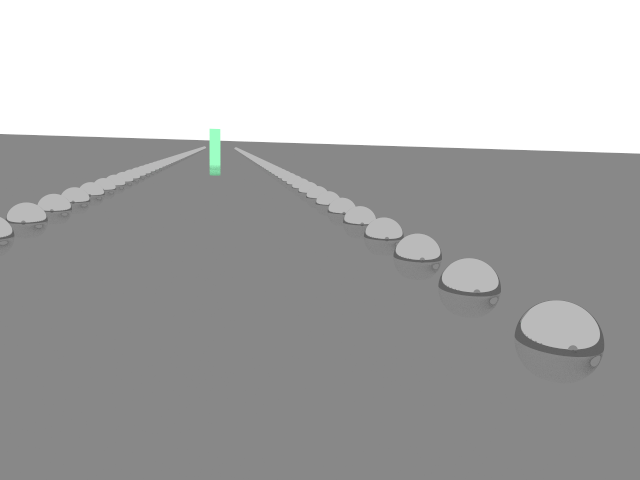
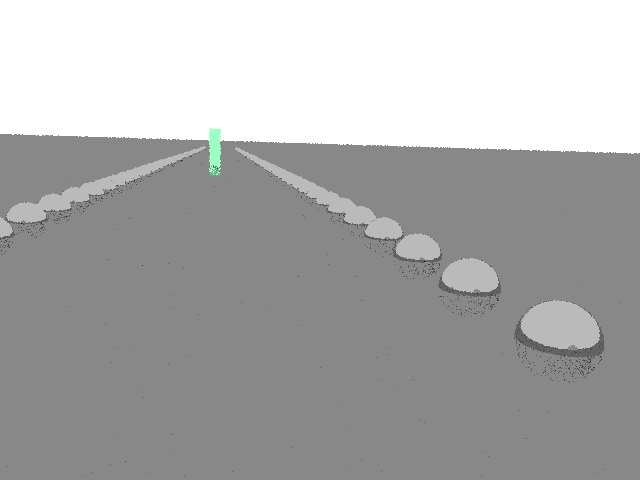
Abgabe a08

diff --git a/src/cgg/Scene.java b/src/cgg/Scene.java
@@ -18,8 +18,6 @@ public class Scene {
 
     public static Group scene1() {
 
-        List<Shape> scene;
-        scene = new ArrayList<>();
         Diffuse diffuse = new Diffuse(color(0.05, 0.3, 0.95));
         Diffuse diffuse1 = new Diffuse(Color.gray);
         Diffuse diffuseGround = new Diffuse(color(0,1,0));
@@ -27,38 +25,54 @@ public class Scene {
         Diffuse diffuse2 = new Diffuse(color(1, 0.81, 0.349));
         Diffuse diffuse3 = new Diffuse(color(0.349, 1, 0.5647));
         Diffuse diffuse4 = new Diffuse(color(0.93,0.02,0.01));
-        Emitter emitter = new Emitter(Color.white, Color.white);
+        Emitter emitter = new Emitter(Color.black, Color.gray);
         Emitter emitter2 = new Emitter(Color.white, color(1,0.8,0));
         Emitter emitter3 = new Emitter(Color.white, color(1,0.5,0.3));
-
         Emitter emitterBlau = new Emitter(Color.white, color(0,0.533,1));
         Mirror mirror = new Mirror(2);
         Mirror mirror2 = new Mirror(0);
         Glass glass = new Glass();
-
         Shape background = new Background(emitter);
-        scene.add(background);
         Shape ground = new Plane(point(0.0, -0.5, 0.0), direction(0, 1, 0), diffuse1);
-        scene.add(ground);
-        Shape globe1 = new Sphere(point(0.8, 0, -6), 0.6, diffuse4);
-        //scene.add(globe1);
-        Shape globe2 = new Sphere(point(0, 0.1, -2), 0.3, glass);
-       // scene.add(globe2);
-        Shape globe3 = new Sphere(point(-0.8, 0.2, -2), 0.2, diffuse3);
-       // scene.add(globe3);
-        Shape globe4 = new Sphere(point(1, 0, -2), 0.3 ,mirror);
-       // scene.add(globe4);
-        Cylinder cylinder = new Cylinder(point(-4.5, 0, -50), 0.5, 0.02, diffuse3);
-        scene.add(cylinder);
 
-        for(int i = 0; i < 200; i = i+ 3){
 
-            Shape globeScene = new Sphere(point(1, 0, -i), 0.6, mirror2);
-            scene.add(globeScene);
-            Shape globeScene2 = new Sphere(point(-10, 0, -i), 0.6, mirror2);
-            scene.add(globeScene2);
+        //Übergeordnete Group
+        Matrix matrixGroup = Matrix.multiply(Matrix.rotation(direction(1, 0, 0), -0) , (Matrix.translation(direction(0, 0, 0))));
+        Group group = new Group(matrixGroup);
+
+        //Untergeordnete Group
+        Matrix matrix = Matrix.multiply(Matrix.rotation(direction(0, 1, 0), 0) ,Matrix.translation(direction(0, 0, 0)));
+        Group sphereGroup = new Group(matrix);
+        for(int i = 0; i < 1000; i++){
+
+            Shape sphere = new Sphere(point(1, 0, -i), 0.6, mirror2);
+            sphereGroup.addShapes(sphere);
+            Shape sphere2 = new Sphere(point(-10, 0, -i), 0.6, mirror2);
+            sphereGroup.addShapes(sphere2);
         }
-        Group group = new Group(scene);
+
+        Matrix matrix2 = Matrix.multiply(Matrix.rotation(direction(1, 0, 0), -90),
+                            Matrix.translation(direction(0, 0, 150)),
+                            Matrix.rotation(direction(0,0,1) , -45));
+        Group sphereGroup2 = new Group(matrix2);
+        Matrix matrix3 = Matrix.multiply(Matrix.rotation(direction(1, 0, 0), -90),
+                            Matrix.translation(direction(7, 10, 150)),
+                            Matrix.rotation(direction(0,0,1) , 45));
+        Group sphereGroup3 = new Group(matrix3);
+        for(int i = 0; i < 50; i ++){
+
+            Shape sphere = new Sphere(point(1, 0, -i), 0.6, emitter3);
+            sphereGroup2.addShapes(sphere);
+            Shape sphere2 = new Sphere(point(0, 0, -i), 0.6, emitter3);
+            sphereGroup3.addShapes(sphere2);
+        }
+
+        Group a082 = new Group(matrixGroup);
+
+        a082.addShapes(sphereGroup, sphereGroup2, sphereGroup3);
+
+
+        group.addShapes(background,ground, a082);
         return group;
     }
 

diff --git a/src/cgg/Group.java b/src/cgg/Group.java
@@ -1,18 +1,27 @@
 package cgg;
 
 import java.util.ArrayList;
+import java.util.Arrays;
 import java.util.Collections;
 import java.util.List;
+import cgtools.Matrix;
 
 
 public class Group implements Shape {
-    double t;
+
     List<Shape> shapes;
     Hit hit;
+    Transformation transformation;
 
 
-    public Group(List<Shape> shapes) {
-        this.shapes = shapes;
+
+    public Group(Matrix rotate) {
+        transformation = new Transformation(rotate);
+        shapes = new ArrayList<>();
+    }
+
+    public void addShapes(Shape... shape) {
+        shapes.addAll(Arrays.asList(shape));
 
     }
 
@@ -22,21 +31,21 @@ public class Group implements Shape {
         List<Hit> hitList = new ArrayList<>();
         for (Shape shape : shapes) {
 
-            hit = shape.intersectWith(r);
+            //Transforqm Ray
+            Ray newRay = new Ray(transformation.pointObject(r.originPoint), transformation.directionObject(r.direction), r.tmin, r.tmax);
+
+            hit = shape.intersectWith(newRay);
             if (hit != null) {
                 hitList.add(hit);
             }
         }
-
-        if (!hitList.isEmpty()){
+        if (!hitList.isEmpty()) {
             Collections.sort(hitList);
-            return hitList.get(0);
-        }
-        else {
+            Hit hit2 = hitList.get(0);
+            return new Hit(transformation.pointWorld(hit2.positionHitPoint),transformation.normalWorld(hit2.normalVectorHitPoint),hit2.materialHit,hit2.t );
+        } else {
             return null;
         }
-
-
     }
 }
 

diff --git a/src/cgg/Main.java b/src/cgg/Main.java
@@ -8,7 +8,7 @@ import cgtools.Matrix;
 import java.io.IOException;
 
 import static cgtools.Vector.*;
-import static cgtools.Matrix.*;
+
 
 public class Main {
 
@@ -27,7 +27,7 @@ public class Main {
         for (int x = 0; x != width; x++) {
             for (int y = 0; y != height; y++) {
                 Color color = color(0, 0, 0);
-                int n = 1;
+                int n = 10;
                 //Stratified Sampling
                 for (int xi = 0; xi < n; xi++) {
                     for (int yi = 0; yi < n; yi++) {
@@ -43,7 +43,9 @@ public class Main {
                 image1.setPixel(x, y, Color.divide(color, n * n));
             }
         }
-        write(image1, "doc/a07-2.png");
+        write(image1, "doc/a08-2.png");
+
+
 
 
     }
@@ -91,7 +93,9 @@ public class Main {
 
     public static Camera makeCamera(){
 
-        Matrix transform = Matrix.multiply(Matrix.rotation(direction(1,0,0),-10),Matrix.rotation(direction(0,1,0),-10), Matrix.translation(direction(-3,2,5)));
+        Matrix transform = Matrix.multiply(Matrix.rotation(direction(1,0,0),-20),
+                            Matrix.rotation(direction(0,1,0),-10),
+                            Matrix.translation(direction(-10,30,80)));
 
 
 

diff --git a/src/cgg/Transformation.java b/src/cgg/Transformation.java
@@ -1,0 +1,35 @@
+package cgg;
+
+import cgtools.Direction;
+import cgtools.Matrix;
+import cgtools.Point;
+
+public class Transformation {
+
+    public Matrix transformation;
+    public Matrix transformationInverse;
+
+
+    public Transformation(Matrix transformation) {
+        this.transformation = transformation;
+        transformationInverse = transformation.invert(transformation);
+    }
+
+    public Point pointObject(Point point) {
+        return transformation.multiply(transformation, point);
+    }
+
+    public Point pointWorld(Point point) {
+        return transformationInverse.multiply(transformationInverse, point);
+    }
+
+    public Direction directionObject(Direction dir) {
+        return transformation.multiply(transformation, dir);
+    }
+
+    public Direction normalWorld(Direction normal) {
+        return transformationInverse.invert(transformation).transpose(transformationInverse).multiply(transformationInverse, normal);
+    }
+
+
+}
